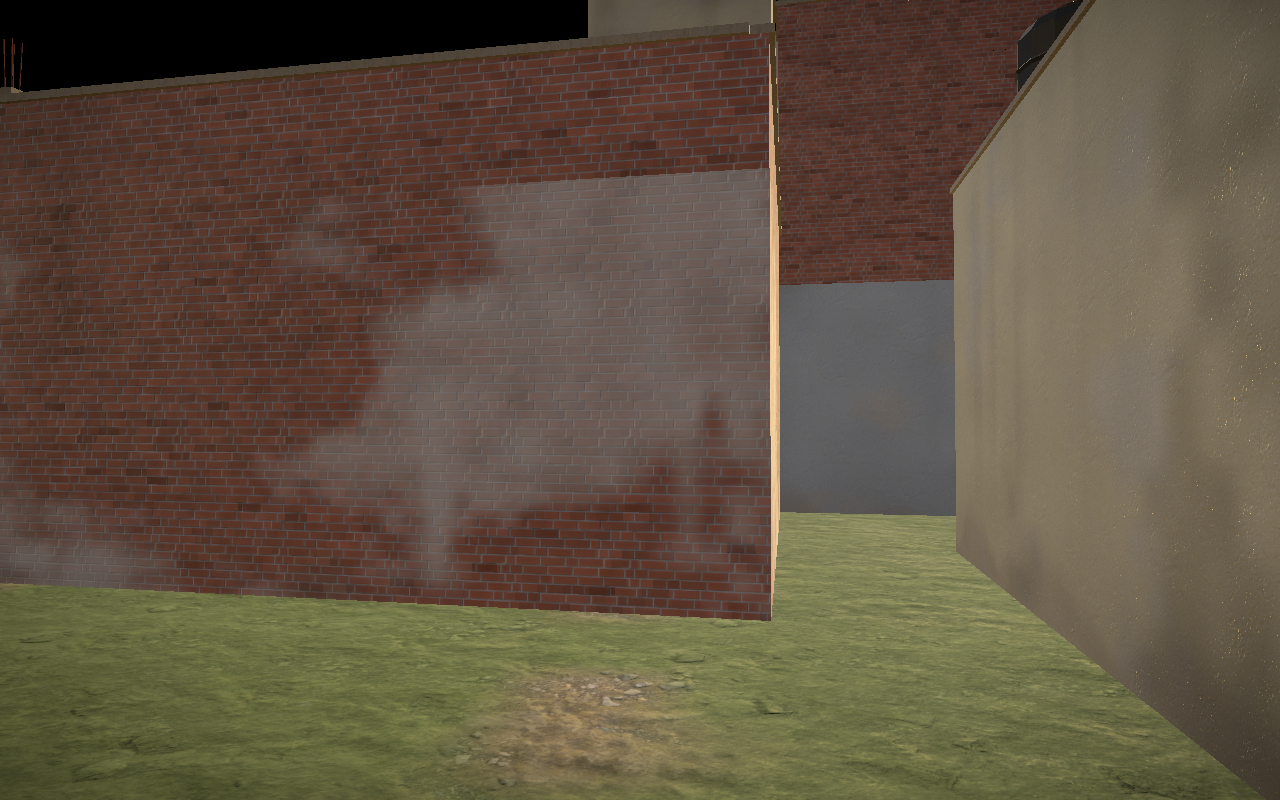
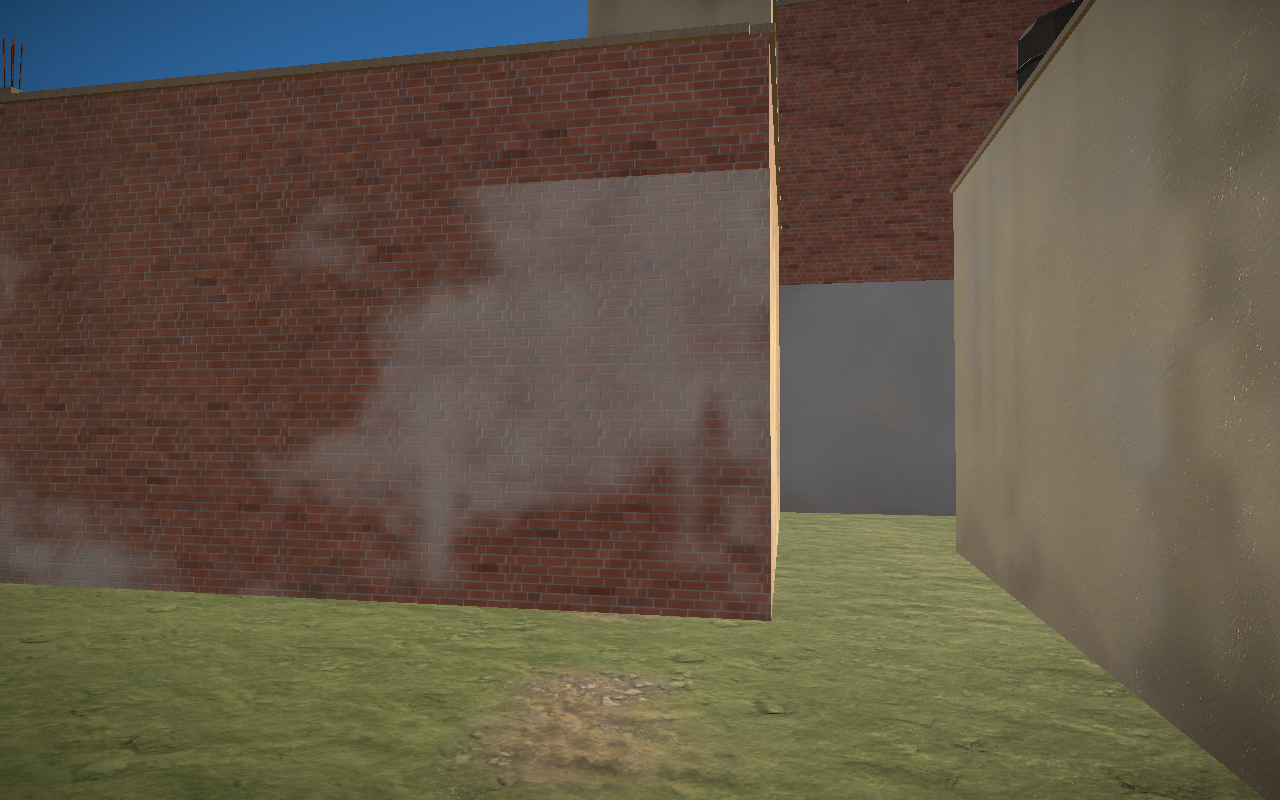
Houses S7: village shots with the sky following the camera; stair risers drawn (were skipped by mistake)

Changed region(s): [[0.0, 0.0, 0.4688, 0.125]]

diff --git a/src/kit/housesKit.js b/src/kit/housesKit.js
@@ -454,7 +454,7 @@ export function buildHouse(design, w, d, mirror = false) {
         const xa = run0 - s * i * tread, xb = run0 - s * (i + 1) * tread;
         const lo = Math.min(xa, xb), hi = Math.max(xa, xb);
         const top = (i + 1) * rise;
-        g.box(lo, hi, top - rise - 0.02, top, z0, z1, { ...S, colSide: C_CONC_D, skip: 'nz ny' + (i ? (s > 0 ? ' px' : ' nx') : '') });
+        g.box(lo, hi, top - rise - 0.02, top, z0, z1, { ...S, colSide: C_CONC_D, skip: 'nz ny' + (i < n - 1 ? (s > 0 ? ' nx' : ' px') : '') }); // the face toward the next (higher) step is hidden by it; the riser shows
         // waist: the stepped outer face down to the sloping soffit
         const soff = (x) => Math.max(0, (Math.abs(x - run0) / Math.abs(run1 - run0)) * yr - 0.38);
         const fa = s > 0 ? hi : lo, fb = s > 0 ? lo : hi;
